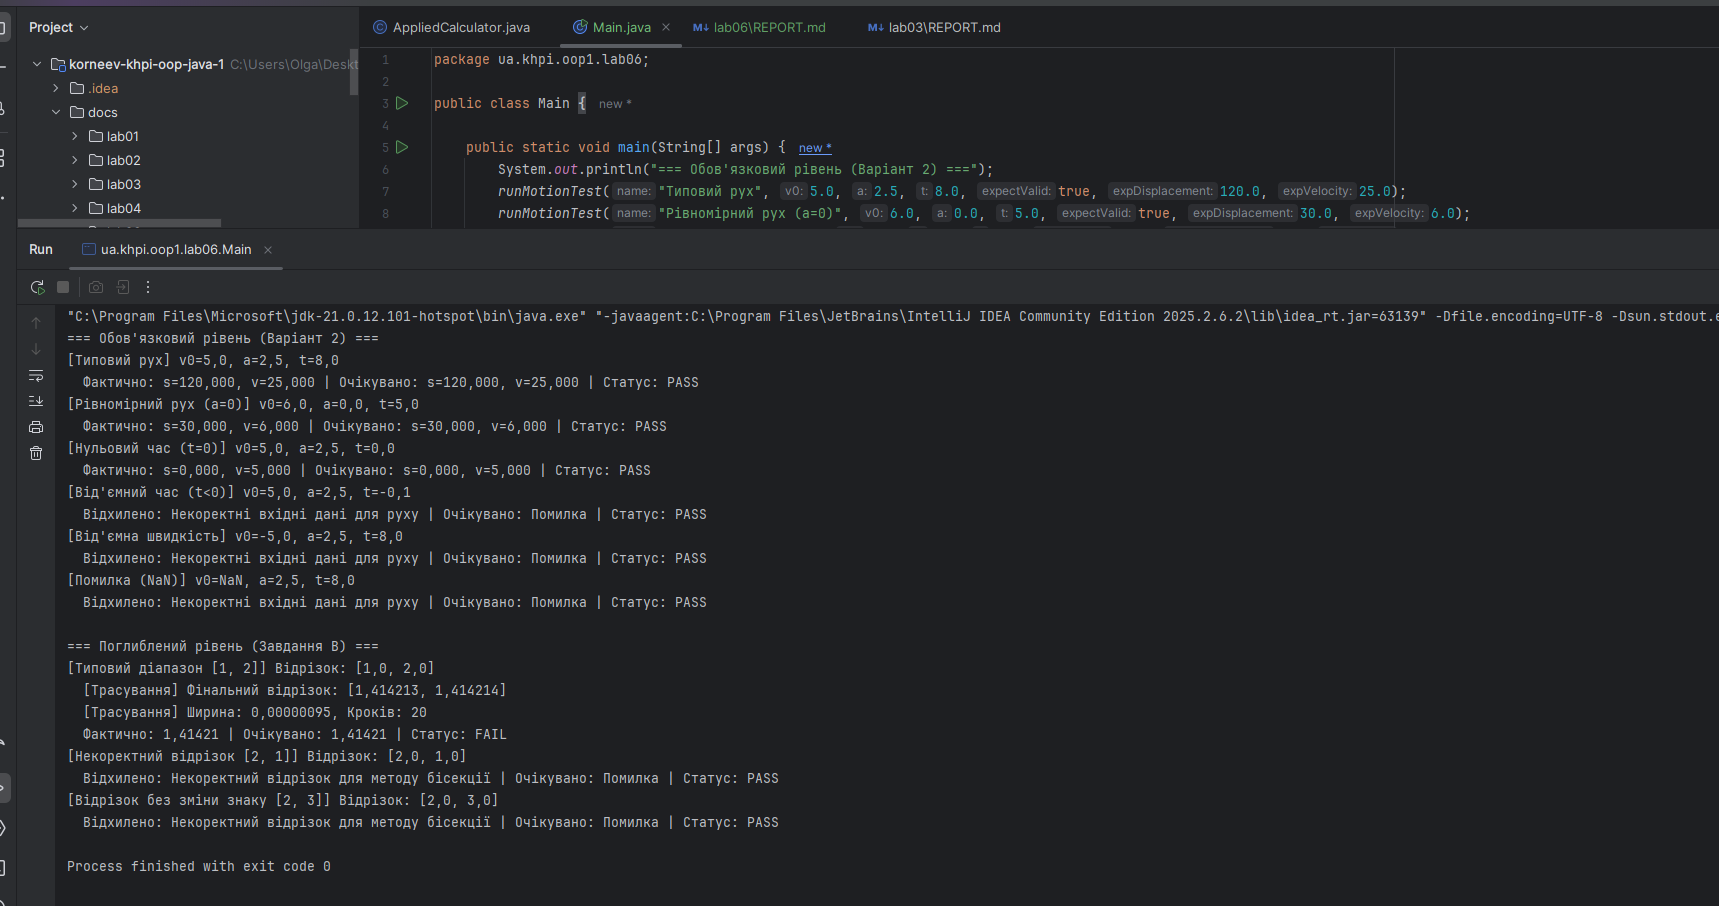
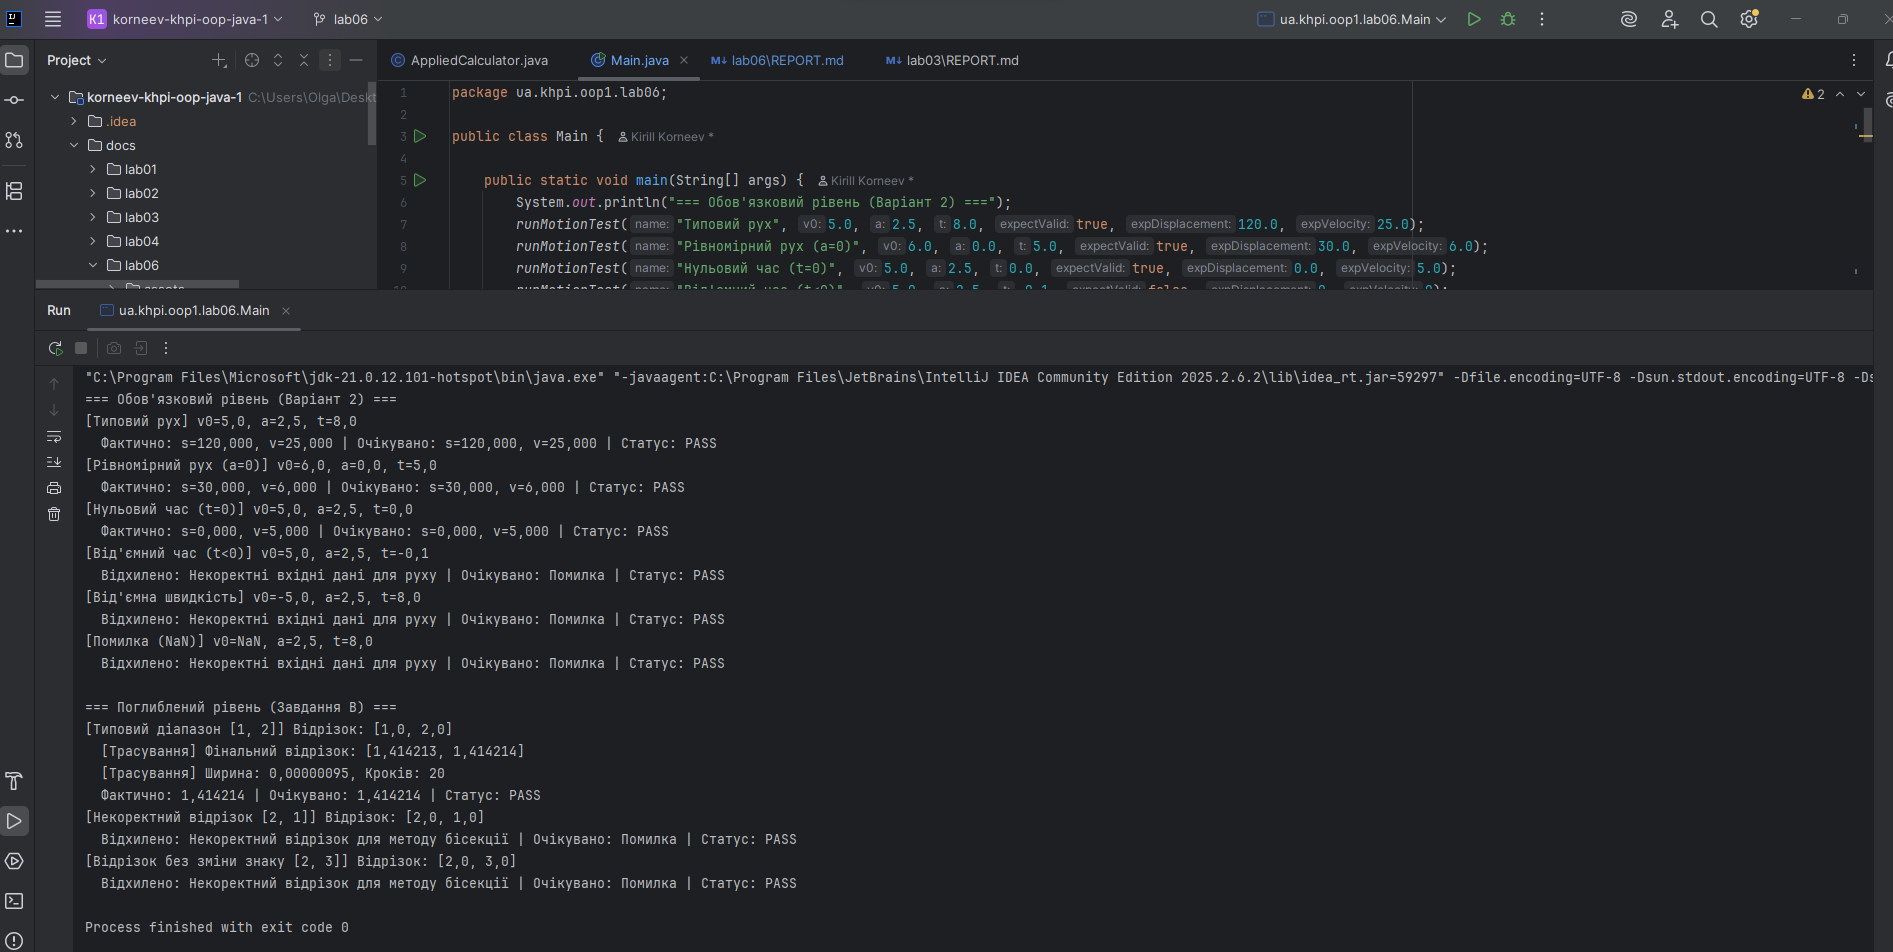
Виправлено очікуване значення в тесті бісекції для точності 1e-6

Changed region(s): [[0.0, 0.0, 1.0, 0.989], [0.9558, 0.0927, 1.0, 0.1545], [0.0, 0.989, 0.0308, 1.0]]

diff --git a/src/main/java/ua/khpi/oop1/lab06/Main.java b/src/main/java/ua/khpi/oop1/lab06/Main.java
@@ -12,7 +12,7 @@ public class Main {
         runMotionTest("Помилка (NaN)", Double.NaN, 2.5, 8.0, false, 0, 0);
 
         System.out.println("\n=== Поглиблений рівень (Завдання B) ===");
-        runBisectionTest("Типовий діапазон [1, 2]", 1.0, 2.0, true, 1.41421, 1e-6);
+        runBisectionTest("Типовий діапазон [1, 2]", 1.0, 2.0, true, Math.sqrt(2.0), 1e-6);
         runBisectionTest("Некоректний відрізок [2, 1]", 2.0, 1.0, false, 0, 0);
         runBisectionTest("Відрізок без зміни знаку [2, 3]", 2.0, 3.0, false, 0, 0);
     }
@@ -119,7 +119,7 @@ public class Main {
         try {
             double actualRoot = findRootBisection(left, right);
             boolean passed = Math.abs(actualRoot - expRoot) <= tolerance;
-            System.out.printf("  Фактично: %.5f | Очікувано: %.5f | Статус: %s%n",
+            System.out.printf("  Фактично: %.6f | Очікувано: %.6f | Статус: %s%n",
                     actualRoot, expRoot, passed ? "PASS" : "FAIL");
         } catch (IllegalArgumentException e) {
             boolean passed = !expectValid;

diff --git a/docs/lab06/REPORT.md b/docs/lab06/REPORT.md
@@ -51,7 +51,7 @@
 ### Тестування поглибленого рівня
 | № | Вхід (відрізок) | Очікувано | Фактично | Статус |
 |---|---|---|---|---|
-| 1 | `[1, 2]` | 1.41421 | 1.41421 | PASS |
+| 1 | `[1, 2]` | 1.414214 | 1.414214 | PASS |
 | 2 | `[2, 1]` | Помилка (left > right) | Відхилено | PASS |
 | 3 | `[2, 3]` | Помилка (немає зміни знаку) | Відхилено | PASS |
 
